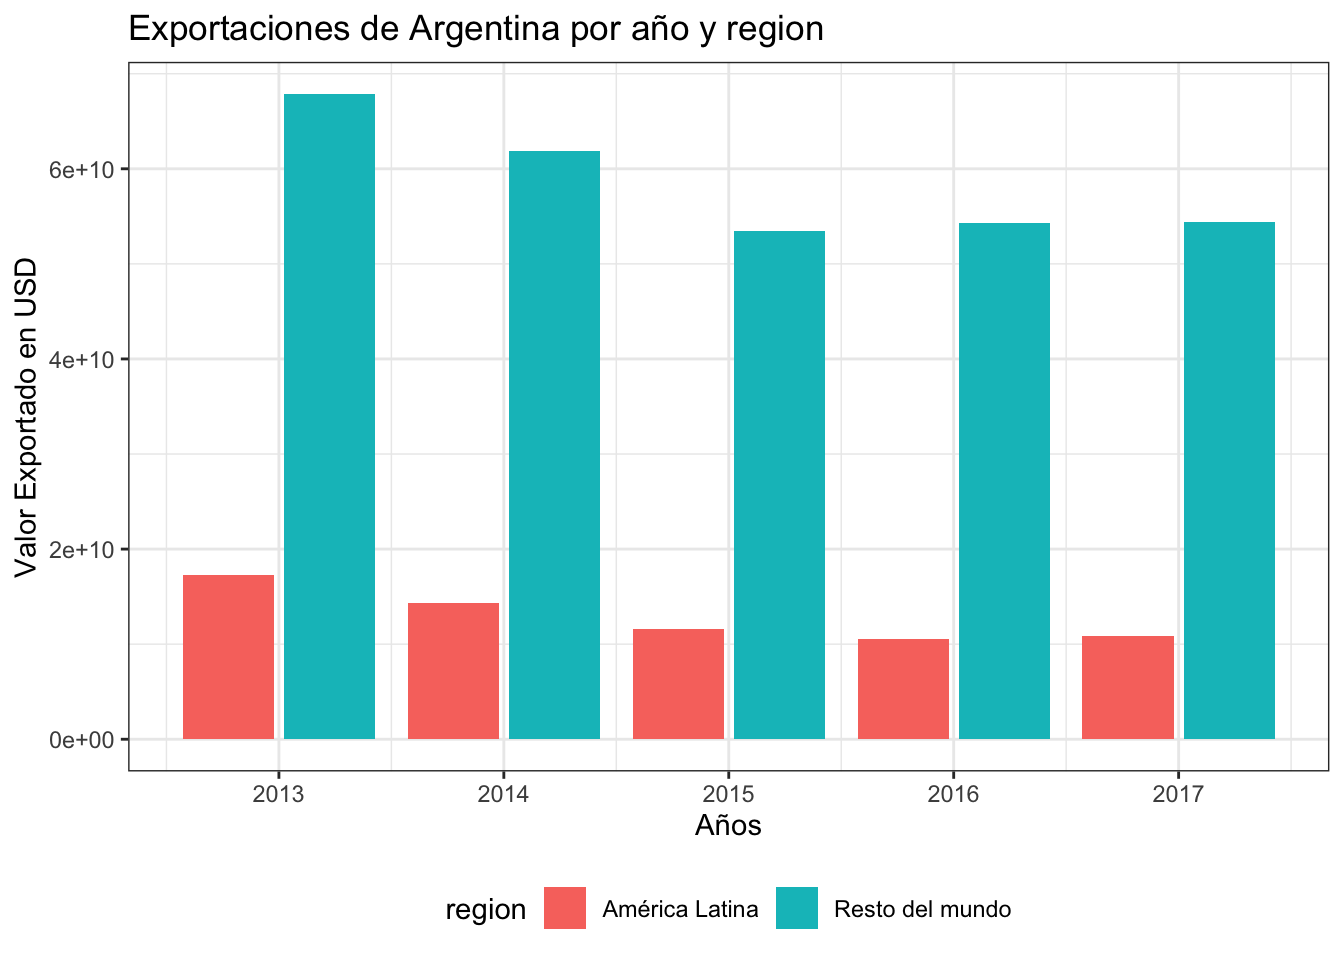
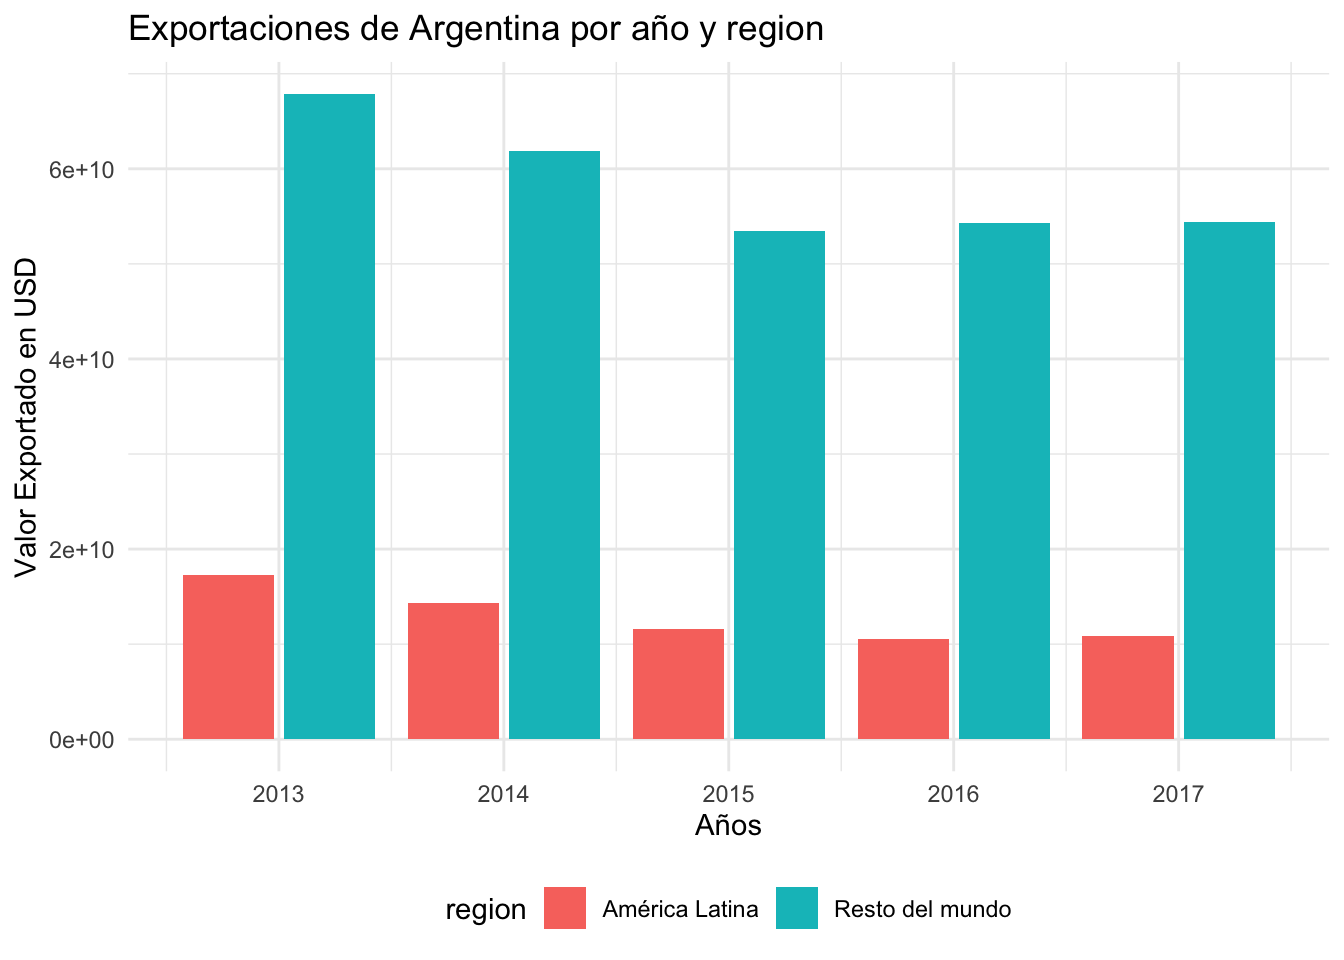
Updates on Argentina posts

Changed region(s): [[0.9688, 0.0625, 1.0, 0.0938], [0.0938, 0.0625, 0.125, 0.0938]]

diff --git a/content/post/2020-12-07-exportacion-argentina/index.html b/content/post/2020-12-07-exportacion-argentina/index.html
@@ -30,7 +30,8 @@ library(tradestatistics)</code></pre>
 <pre class="r"><code>argentina_export_reducida &lt;- comercio_arg %&gt;%
   group_by(year) %&gt;%
   summarise(
-    export_value_usd = sum(export_value_usd, na.rm = T))</code></pre>
+    export_value_usd = sum(export_value_usd, na.rm = T))
+view(argentina_export_reducida)</code></pre>
 </div>
 <div id="graficando" class="section level2">
 <h2>Graficando</h2>
@@ -48,15 +49,15 @@ library(tradestatistics)</code></pre>
 </div>
 <div id="exportación-de-productos" class="section level1">
 <h1>Exportación de productos</h1>
-<p>Ahora quiero demostar que tipo de productos que se exportó desde Argentina en el año 2017.</p>
+<p>Ahora bien, querría demostar que tipo de productos que se exportó desde Argentina en el año 2017.</p>
 <div id="cargando-los-datos" class="section level2">
 <h2>Cargando los datos</h2>
 <p>Para hacer el analisis más agil y fácil de entender (y porqué me costó bastante encontrar la vuelta al API de tradestatistics - newbee problems) eligí hacer este analisis utilizando el base de datos publicado para Datos de Miércoles en mayo 2019:</p>
-<pre class="r"><code># Las exportaciones argentinas en 2017 por producto
-comercio_latam &lt;- readr::read_csv(&quot;https://raw.githubusercontent.com/cienciadedatos/datos-de-miercoles/master/datos/2019/2019-05-01/comercio_hispanoamerica_mundo_agregado.csv&quot;) </code></pre>
+<pre class="r"><code>comercio_latam &lt;- readr::read_csv(&quot;https://raw.githubusercontent.com/cienciadedatos/datos-de-miercoles/master/datos/2019/2019-05-01/comercio_hispanoamerica_mundo_agregado.csv&quot;) </code></pre>
 </div>
 <div id="transformando-los-datos-1" class="section level2">
 <h2>Transformando los datos:</h2>
+<p>Eligo los datos de Argentina para el año 2017 y los agrupo por categoría de productos.</p>
 <pre class="r"><code>export_argentina_2017 &lt;- comercio_latam %&gt;%
   filter(anio == 2017, codigo_iso_origen == &quot;arg&quot;) %&gt;%
   group_by(anio, nombre_comunidad_producto, color_comunidad_producto) %&gt;%

diff --git a/content/post/2020-12-07-socios-argentina/index.html b/content/post/2020-12-07-socios-argentina/index.html
@@ -47,7 +47,7 @@ library(readr)</code></pre>
     x = &quot;Años&quot;,
     y = &quot;Valor Exportado en USD&quot;,
     title = &quot;Exportaciones de Argentina por año y region&quot;) +
-  theme_bw() +
+  theme_minimal() +
   theme(legend.position = &quot;bottom&quot;)</code></pre>
 <p><img src="index_files/figure-html/argentina%20export%20grafico-1.png" width="672" /></p>
 <p>Está claro que Argentina exporta la mayor cantidad al resto del mundo y como analizado en el post anterior sobre las categoría de productos que se exporta (link), sabemos que la mayoría de lo que se exporta son productos de (1) Vegetales, Animales y Alimentos, y (2) Metales, Minerales y Productos Químicos.</p>
